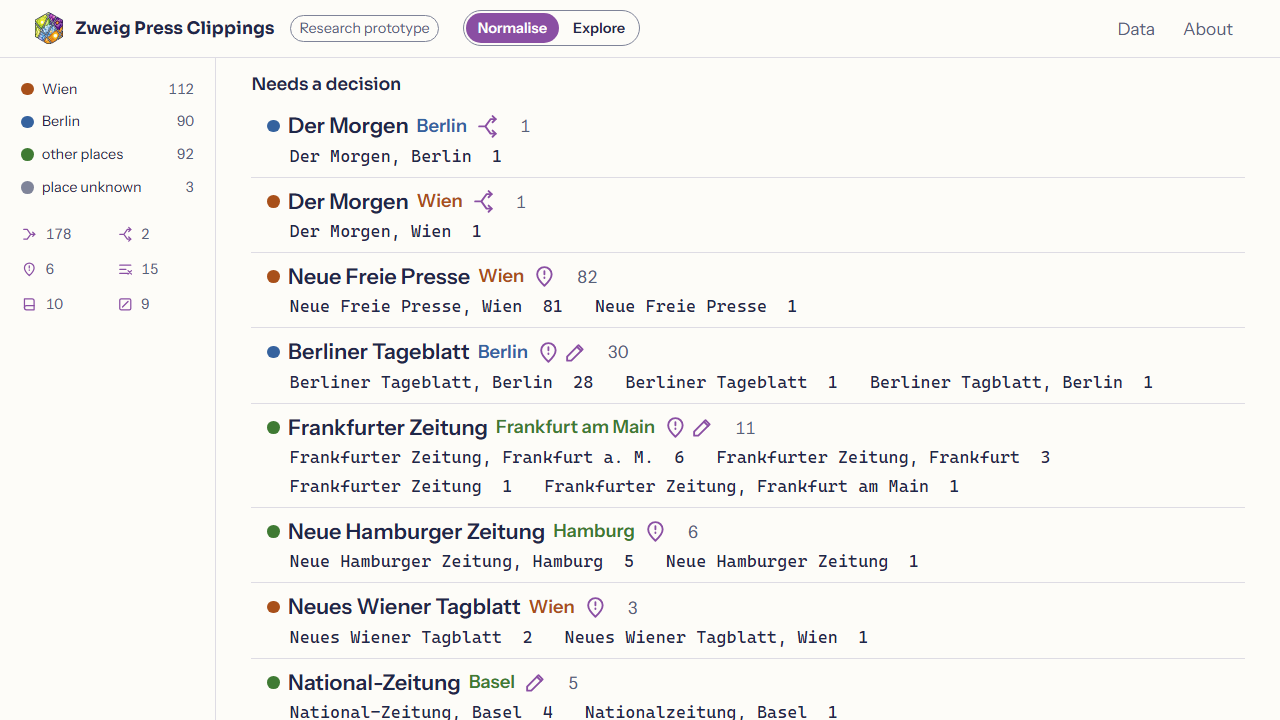
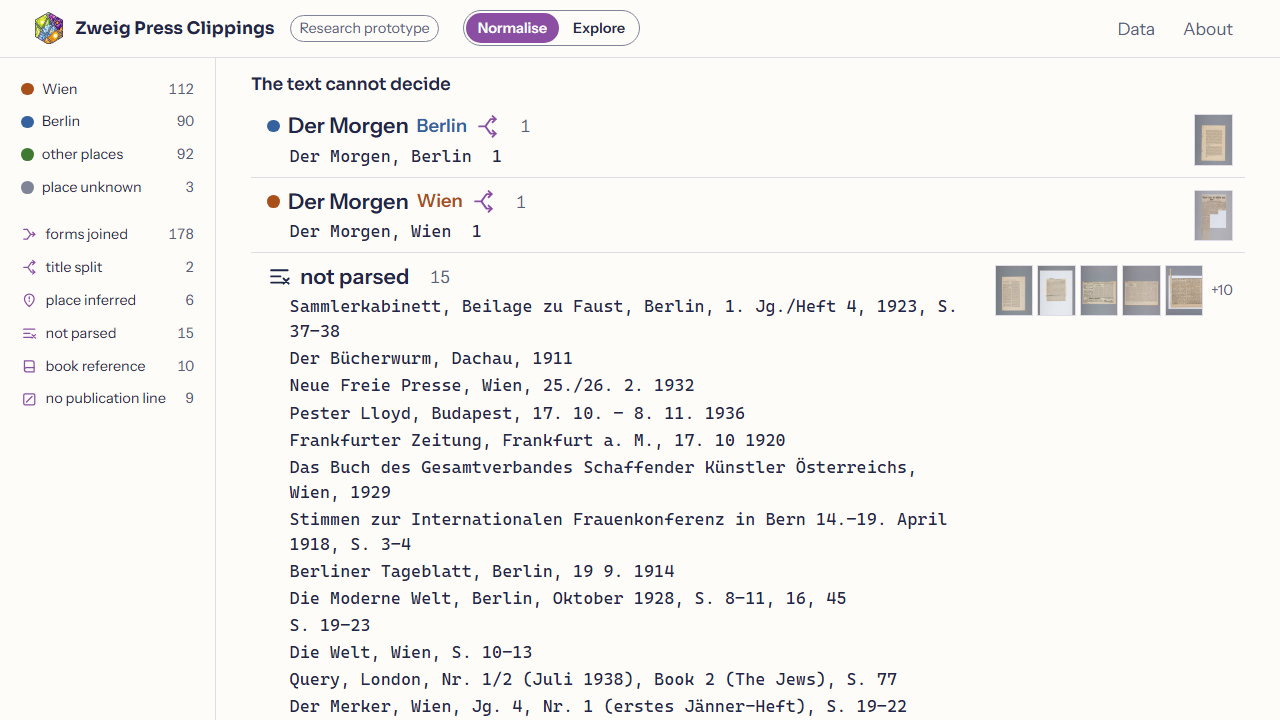
Show case names in the side panel, facsimile previews in proposal rows, split the decision group into undecidable and inferred

diff --git a/docs/app.js b/docs/app.js
@@ -97,7 +97,7 @@ function renderRail() {
     <div class="rail-group" role="group" aria-label="Place of publication">${PLACES.map((p) =>
       btn("place", p.key, `<span class="sw c-${p.key}" aria-hidden="true"></span><span class="rl">${esc(p.label)}</span>`, `clippings in periodicals of ${p.label}`, placeCount(p.key), p.label)).join("")}</div>
     <div class="rail-group cases" role="group" aria-label="Kind of case">${CASES.map((c) =>
-      btn("case", c.key, `${icon(c.icon)}<span class="vh">${esc(c.label)}</span>`, `${c.label}: ${c.tip}`, caseCount(c.key), c.label)).join("")}</div>
+      btn("case", c.key, `${icon(c.icon)}<span class="rl">${esc(c.label)}</span>`, c.tip, caseCount(c.key), c.label)).join("")}</div>
     ${state.filter ? '<button type="button" class="rail-reset" id="reset">Show all</button>' : ""}`;
   $("#rail").querySelectorAll(".rail-item").forEach((b) => b.addEventListener("click", () => {
     const same = state.filter?.type === b.dataset.type && state.filter.key === b.dataset.key;
@@ -108,12 +108,26 @@ function renderRail() {
   $("#reset")?.addEventListener("click", () => { state.filter = null; refresh(); $("#rail .rail-item").focus(); });
 }
 
+// Facsimile previews in a row: a few small first pages, then the number of the rest. They are
+// images inside the row's button, so a row stays one control; a click on one opens that clipping,
+// the keyboard reaches the same pages through the row's panel.
+const PREVIEWS = 5;
+function previews(items) {
+  const shown = items.filter((it) => it.image).slice(0, PREVIEWS);
+  if (!shown.length) return "";
+  const rest = items.length - shown.length;
+  return `<span class="previews">${shown.map((it) => `<img src="img/${esc(it.pid.replace(":", "_"))}.jpg" alt="Facsimile of ${esc(it.signature)}" loading="lazy" data-pid="${esc(it.pid)}">`).join("")}${rest > 0 ? `<span class="more">+${rest}</span>` : ""}</span>`;
+}
+
 // Normalise: one row per proposal, grouped by what needs an expert first.
 function renderNormalise() {
   const ents = data.entities.filter((e) => e.items.some(matches));
   // Within "needs a decision": a split title first, then an inferred place, then an editorial alias.
   const weight = (e) => (e.split ? 0 : e.items.some((it) => it.kinds.has("infer")) ? 1 : 2);
   const needs = ents.filter((e) => e.needs).sort((a, b) => weight(a) - weight(b) || b.count - a.count);
+  // What a text alone cannot decide comes first as its own block; inferred places and aliases follow.
+  const undecidable = needs.filter((e) => e.split);
+  const inferred = needs.filter((e) => !e.split);
   const joined = ents.filter((e) => !e.needs && e.forms.length > 1).sort((a, b) => b.count - a.count);
   const unchanged = ents.filter((e) => !e.needs && e.forms.length === 1).sort((a, b) => b.count - a.count || a.label.localeCompare(b.label, "de"));
   const loose = ["unread", "book", "none"].map((k) => ({ kind: k, items: data.items.filter((it) => it.status === k && matches(it)) })).filter((g) => g.items.length);
@@ -126,27 +140,31 @@ function renderNormalise() {
     return `<li><button type="button" class="prop${on ? " on" : ""}" aria-pressed="${on}" data-entity="${esc(e.id)}">
       <span class="prop-head"><span class="sw c-${e.city}" aria-hidden="true"></span><span class="prop-name">${esc(e.label)}</span> <span class="prop-place c-text-${e.city}">${esc(e.place ?? "place unknown")}</span>${marks ? `<span class="prop-icons">${marks}</span>` : ""}<span class="prop-n">${e.count}</span></span>
       <span class="chips">${e.forms.map(([f, n]) => `<code class="chip">${esc(f)}  ${n}</code>`).join("")}</span>
+      ${previews(e.items)}
     </button></li>`;
   };
   const looseRow = (g) => {
     const c = CASES.find((x) => x.key === g.kind);
     const on = sel?.type === "loose" && sel.id === g.kind;
-    return `<li><button type="button" class="prop${on ? " on" : ""}" aria-pressed="${on}" data-loose="${g.kind}">
+    return `<li><button type="button" class="prop loose${on ? " on" : ""}" aria-pressed="${on}" data-loose="${g.kind}">
       <span class="prop-head">${icon(c.icon)}<span class="prop-name">${esc(c.label)}</span><span class="prop-n">${g.items.length}</span></span>
       <span class="chips">${g.items.map((it) => `<code class="chip">${esc(it.raw || it.title)}</code>`).join("")}</span>
+      ${previews(g.items)}
     </button></li>`;
   };
   const group = (title, rows) => rows.length ? `<section class="pgroup"><h2>${esc(title)}</h2><ul class="props">${rows.join("")}</ul></section>` : "";
   const needLoose = loose.filter((g) => g.kind === "unread");
   const setAside = loose.filter((g) => g.kind !== "unread");
   $("#normalise").innerHTML =
-    group("Needs a decision", [...needs.map(entRow), ...needLoose.map(looseRow)]) +
+    group("The text cannot decide", [...undecidable.map(entRow), ...needLoose.map(looseRow)]) +
+    group("Place inferred or alias applied", inferred.map(entRow)) +
     group("Joined by rule", joined.map(entRow)) +
     group("Set aside by rule", setAside.map(looseRow)) +
     (unchanged.length ? `<section class="pgroup"><h2><button type="button" class="opener" aria-expanded="${state.showUnchanged}" id="toggle-unchanged">Unchanged, one form each <span class="prop-n">${unchanged.reduce((a, e) => a + e.count, 0)}</span></button></h2>${state.showUnchanged ? `<ul class="props">${unchanged.map(entRow).join("")}</ul>` : ""}</section>` : "") +
     (ents.length || loose.length ? "" : '<p class="state">No clipping matches this filter. Choose "Show all" in the rail.</p>');
-  $("#normalise").querySelectorAll("[data-entity]").forEach((b) => b.addEventListener("click", () => openEntity(b.dataset.entity, b)));
-  $("#normalise").querySelectorAll("[data-loose]").forEach((b) => b.addEventListener("click", () => openLoose(b.dataset.loose, b)));
+  const preview = (ev, b) => { const img = ev.target.closest("img[data-pid]"); if (img) { openItem(img.dataset.pid, b); return true; } return false; };
+  $("#normalise").querySelectorAll("[data-entity]").forEach((b) => b.addEventListener("click", (ev) => { if (!preview(ev, b)) openEntity(b.dataset.entity, b); }));
+  $("#normalise").querySelectorAll("[data-loose]").forEach((b) => b.addEventListener("click", (ev) => { if (!preview(ev, b)) openLoose(b.dataset.loose, b); }));
   $("#toggle-unchanged")?.addEventListener("click", () => { state.showUnchanged = !state.showUnchanged; renderNormalise(); $("#toggle-unchanged").focus(); });
 }
 

diff --git a/docs/style.css b/docs/style.css
@@ -60,9 +60,6 @@ code { font-family: var(--dh-font-mono); }
 .rail-item .n, .prop-n, .n { font-variant-numeric: tabular-nums; color: var(--dh-ink-soft); }
 .rail-item .dh-icon { color: var(--dh-accent); }
 .rail-item .tipbox { inset-block-start: 0; inset-inline-start: calc(100% + 8px); }
-.rail-group.cases { flex-direction: row; flex-wrap: wrap; gap: var(--dh-space-1); }
-.rail-group.cases .rail-item { inline-size: auto; flex: 0 0 calc(50% - var(--dh-space-1)); }
-.rail-group.cases .tipbox { inset-block-start: calc(100% + 4px); inset-inline-start: 0; }
 .rail-reset { align-self: flex-start; border: 1px solid var(--dh-accent); border-radius: var(--dh-radius-pill); background: none; padding: 2px var(--dh-space-3); color: var(--dh-link); font-size: var(--dh-step--1); }
 .rail-status { margin: auto 0 0; font-size: var(--dh-step--1); color: var(--dh-ink-soft); }
 .sw { flex: none; display: inline-block; inline-size: .8rem; block-size: .8rem; border-radius: 50%; }
@@ -81,17 +78,24 @@ code { font-family: var(--dh-font-mono); }
 /* Rows separated by hairlines, no boxes; the accent bar marks the hovered and the selected row. */
 .props { list-style: none; margin: 0; padding: 0; }
 .props li + li { border-block-start: var(--dh-hairline) solid var(--dh-line); }
-.prop { display: block; inline-size: 100%; text-align: start; padding: var(--dh-space-2) var(--dh-space-3); border: 0; border-inline-start: 4px solid transparent; background: none; }
+/* Text on the left, the facsimile previews in the free right part of the row. */
+.prop { display: grid; grid-template-columns: minmax(0, 1fr) auto; grid-template-areas: "head prev" "chips prev"; column-gap: var(--dh-space-5); align-items: start; inline-size: 100%; text-align: start; padding: var(--dh-space-2) var(--dh-space-3); border: 0; border-inline-start: 4px solid transparent; background: none; }
 .prop:hover { border-inline-start-color: var(--dh-line-strong); }
 .prop:hover .prop-name { text-decoration: underline; }
 .prop.on { border-inline-start-color: var(--dh-accent); }
 .prop.on .prop-name { color: var(--dh-accent); }
-.prop-head { display: flex; align-items: center; gap: var(--dh-space-2); font-size: var(--dh-step-1); }
+.prop-head { grid-area: head; display: flex; align-items: center; gap: var(--dh-space-2); font-size: var(--dh-step-1); }
 .prop-name { font-weight: 600; }
 .prop-place { font-weight: 600; font-size: .85em; }
 .prop-icons { display: inline-flex; gap: 2px; color: var(--dh-accent); }
 .prop-n { margin-inline-start: var(--dh-space-3); font-size: var(--dh-step-0); }
-.chips { display: flex; flex-wrap: wrap; gap: var(--dh-space-1) var(--dh-space-6); margin-block-start: 2px; padding-inline-start: 1.4rem; }
+.previews { grid-area: prev; display: flex; align-items: center; gap: var(--dh-space-1); align-self: start; margin-block-start: var(--dh-space-1); }
+.previews img { block-size: 3.2rem; inline-size: 2.4rem; object-fit: cover; object-position: top; border: 1px solid var(--dh-line); background: var(--dh-ground-alt); }
+.previews img:hover { outline: 2px solid var(--dh-accent); outline-offset: 1px; }
+.previews .more { font-size: var(--dh-step--1); color: var(--dh-ink-soft); padding-inline-start: var(--dh-space-1); }
+/* Lines that are not one periodical stand one per line, so two lines never read as one. */
+.prop.loose .chips { flex-direction: column; gap: 2px; }
+.chips { grid-area: chips; display: flex; flex-wrap: wrap; gap: var(--dh-space-1) var(--dh-space-6); margin-block-start: 2px; padding-inline-start: 1.4rem; }
 .chip { font-size: var(--dh-step-0); color: var(--dh-ink); white-space: pre-wrap; }
 .opener { border: 0; background: none; padding: 0; font: inherit; color: var(--dh-link); display: inline-flex; gap: var(--dh-space-2); align-items: baseline; }
 .opener::before { content: "+"; font-family: var(--dh-font-mono); }
@@ -184,6 +188,8 @@ code { font-family: var(--dh-font-mono); }
   .rl-place, .rowcount { display: none; }
   .prop-head { font-size: var(--dh-step-0); flex-wrap: wrap; }
   .prop { padding-block: var(--dh-space-3); }
+  .prop { grid-template-columns: minmax(0, 1fr); grid-template-areas: "head" "chips" "prev"; }
+  .previews { justify-self: start; margin-block-start: var(--dh-space-2); }
   .chip { font-size: var(--dh-step--1); }
 }
 @media (prefers-reduced-motion: reduce) {

diff --git a/knowledge/design.md b/knowledge/design.md
@@ -56,6 +56,7 @@ Filled mark: proposal by rule. Ringed mark (filled with an outer ring): confirme
 - 2026-11-15, relayed by the Research Coordination, verbatim: „Dann würden wir diesen Prototypen gleich auf die erste Folie nach der Vorstellung von mir und DHCraft als Screenshot und mit einem GitHub Pages Link zu einem fertigen Tool. Und das muss wie das GOSSIP Tool oder CorrespExplorer sein? Eben nur spezialisiert und innovativ und fertig ausgebaut“. Maps to yardstick rule 31 (family header and footer). Status: addressed in the first build, not yet seen by the operator.
 - 2026-11-15, relayed by the Research Coordination, verbatim: „Man möchte nicht vor und nach dem Modellieren haben, sondern man möchte eigentlich ein Werkzeug haben, um die Daten in das modellierte Schema zu überführen. damit ich da mit den modellierten Daten arbeiten kann“ and „Das heißt, wir haben ein Tool mit zwei Ansichten: einer Dateneingabeansicht und einer Ansicht zur Analyse.“ Maps to yardstick rule 39 (views by the subject people work with). Status: reframed as Model and Explore with export in this build; the mask with decisions is planned in plan.md.
 - 2026-11-15, relayed by the Research Coordination, verbatim: „Also, wir haben wieder die gleichen User-Interface-Probleme. Analysiere mal selber kritisch, was das alles ist, und erzeuge das verbesserte User Interface.“ Maps to yardstick rules 14, 22, 28, 35, 41 and to the section on surfaces in Operator-Wissen. Status: rebuilt in commit 588c4f2 and after; not yet seen by the operator.
+- 2026-11-15, relayed by the Research Coordination, verbatim: „ja, Namen ins Panel und Faksimile-Vorschau in die Liste“. Rules 7, 29; the density limit yields on his word: with the case names visible, Explore at 1280 measures 76 text elements against the limit of 70 (Normalise at 1280 and both views at 360 stay within limits). Status: built, commit after 923e3e5.
 - 2026-11-15, on the Explore state before the rebuild, relayed by the Research Coordination, verbatim: „Warum nutzt die Datenvisualisierung nicht die ganze Breite?“ Rule 41. Status: fixed in 588c4f2, the figure takes the stage, the panel appears only on a selection.
 - 2026-11-15, same, verbatim: „Warum sind es so viele Ebenen?“ Rule 35. Status: fixed in 588c4f2, one header row before the data, measured.
 - 2026-11-15, same, verbatim: „Warum ist der Button so groß?“ Rule none (size of a control is not yet a yardstick rule; finding for the yardstick). Status: switch reduced to a small segmented control in the header row, commit after f528e76.

diff --git a/knowledge/journal.md b/knowledge/journal.md
@@ -23,6 +23,12 @@ template: journal
 
 ## Entries
 
+### 2026-11-15 Case names in the side panel, facsimile previews in the list
+
+- Trigger: the operator's answer „ja, Namen ins Panel und Faksimile-Vorschau in die Liste“, and the Research Coordination's decision to split the decision group.
+- Changed: case kinds with visible names in the side panel; up to five facsimile previews per proposal row, then the count of the rest, as images inside the row's button (one control per row; a click on a preview opens that clipping); "Needs a decision" split into "The text cannot decide" (split title, lines not parsed) and "Place inferred or alias applied".
+- Evidence: 17 tests; keyboard script 18 of 18; density passes except Explore at 1280 (76 text elements against 70), which yields on the operator's word and is recorded in design.md.
+
 ### 2026-11-15 Frame rebuilt after the operator's rejection
 
 - Trigger: the operator rejected the Model state on his screen ("wieder die gleichen User-Interface-Probleme"); the Research Coordination's analysis named unused space, four levels before the data, colour without meaning in Model, a timeline that played no part in joining, small type, hidden affordances and explanatory text.
